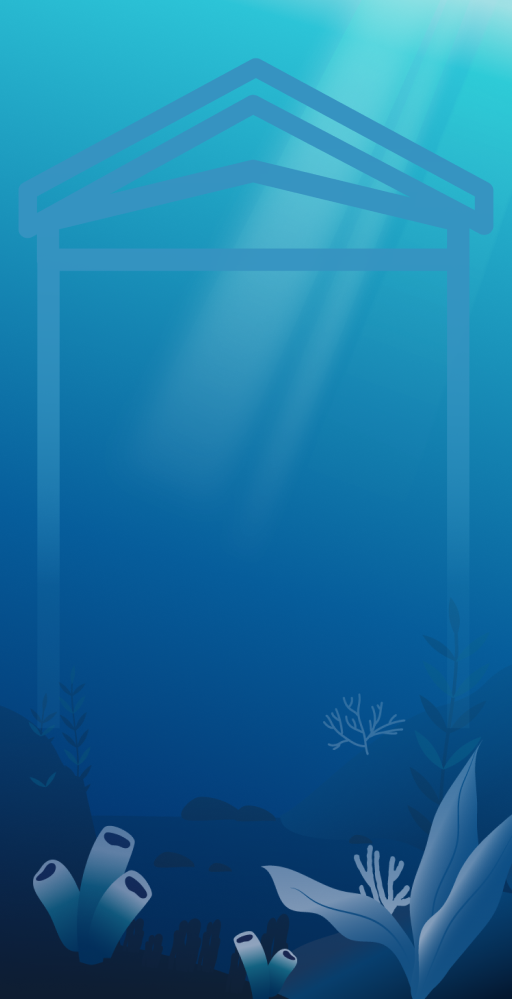
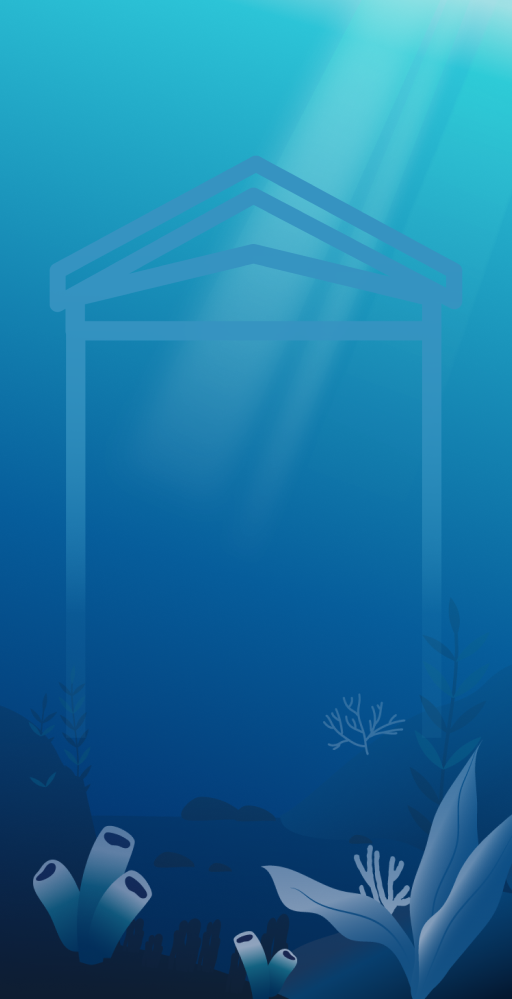
q8

diff --git a/qa.html b/qa.html
@@ -59,7 +59,7 @@
                     <button type="button" class="rightarrow_btn"><img src="./img/img/arrow@4x 2.png"
                             width="36"></button>
                 </div>
-                <button id="selectBtn">選好了</button>
+                <button class="selectBtn">選好了</button>
             </div>
 
         </div>
@@ -93,11 +93,51 @@
                         width="98">
                 </div>
             </div>
-            <button id="selectBtn"><a href="qa5.html"> 選好了</a></button>
-
-
+            <button class="selectBtn">選好了</button>
         </div>
-        
+        <div class="question" data-index="4">
+            <p class="qa">跟著寶石游著游著，你發現海底熱鬧繁華，原來是正在舉辦音樂節，同時，遠方出現水母向你招手，邀你一同歡慶，於是你...</p>
+            <div class="container q5">
+                <img src="./img/img/333.png" alt="水母" width="316">
+            </div>
+            <input type="button" class="qa_btn" data-score="20" data-person="talk" value="過去詢問詛咒一事"></input>
+            <input type="button" class="qa_btn" data-score="15" data-person="one" value="時間還很充裕先逛逛"></input>
+            <input type="button" class="qa_btn" data-score="12" data-person="detail" value="先取得解藥再折返"></input>
+        </div>
+
+        <div class="question" data-index="5">
+            <p class="qa">此時，穿過神秘水流不小心捲入漩渦，眼前的寶石也消失了，來到了洞穴入口，結果突然衝出xx動物擋在你眼前，你覺得是...</p>
+            <div class="container q6">
+                <img src="./img/img/eyesss.png" alt="魚眼" width="350">
+            </div>
+            <input type="button" class="qa_btn q6" data-score="10" data-person="create" value="算命卜卦的水母
+            用水晶球預言未來"></input>
+            <input type="button" class="qa_btn q6" data-score="12" data-person="detail" value="通曉古今的海龜
+            闡述人魚傳說的故事"></input> 
+            <input type="button" class="qa_btn q6" data-score="15" data-person="leader" value="霸佔領域的鯊魚
+            質問你到此的原因"></input>
+        </div>
+        <div class="question" data-index="6">
+            <p class="qa">吿別之後，夜幕降臨，你得知”解藥”被稱為「珊瑚花」，藏匿於洞穴深處，如果可以，你希望能跟誰一同踏入尋找?</p>
+            <div class="containe q7">
+                <img class="flower" src="./img/img/flower01.png" alt="神秘花" width="260">
+            </div>
+            <input type="button" class="qa_btn q7" data-score="10" data-person="create" value="我最好的朋友
+            "></input> 
+            <input type="button" class="qa_btn q7" data-score="12" data-person="detail" value="有經驗豐富的前輩帶領
+            "></input>  
+            <input type="button" class="qa_btn q7" data-score="15" data-person="leader" value="能聽我指揮的全能虎鯨
+            "></input>
+        </div>
+        <div class="question" data-index="7">
+            <p class="qa">穿越洞穴後，眼前豁然開朗，出現了一片巨大的珊瑚林，你最期待看到...</p>
+            <input type="button" class="qa_btn q8" data-score="10" data-person="create" value="我最好的朋友
+            "></input> 
+            <input type="button" class="qa_btn q8" data-score="12" data-person="detail" value="有經驗豐富的前輩帶領
+            "></input>  
+            <input type="button" class="qa_btn q8" data-score="15" data-person="leader" value="能聽我指揮的全能虎鯨
+            "></input>
+        </div>
     </div>
 
 

diff --git a/js/qa.js b/js/qa.js
@@ -34,11 +34,19 @@ $(document).ready(function () {
             // 如果您希望移动后 logo 不再动画，则将 transition 属性设为空字符串
             logo.css('transition', 'transform 1s');
         });
+        $('.image-selection img').on('click', function () {
+            // 清除所有圖像的亮起狀態
+            $('.image-selection img').removeClass('selected');
+            // 點亮當前點擊的圖像
+            $(this).addClass('selected');
+            // 顯示 "選好了" 按鈕
+            $('#selectBtn').show();
+        });
     });
 
 
     // 监听"選好了"按钮点击事件
-    $('#selectBtn').on('click', function () {
+    $('.selectBtn').on('click', function () {
         // 移动进度条的 logo
         $('.logo').animate({ left: '35px' }, 'slow');
 
@@ -147,31 +155,58 @@ $(document).ready(function () {
     });
 });
 
+$(document).ready(function () {
+    // 監聽形狀圖像的點擊事件
+    $('.question[data-index="3"] .image-selection img').on('click', function () {
+        // 顯示 "選好了" 按鈕
+        $('.question[data-index="3"] .selectBtn').show();
+    });
+
+    // 監聽 "選好了" 按鈕點擊事件
+    $('.question[data-index="3"] .selectBtn').on('click', function () {
+        // 移動進度條的 logo
+        $('.progress .logo').animate({ left: '35px' }, 'slow');
+
+        // 隱藏當前問題並顯示下一個問題
+        let currentQuestion = $(this).closest('.question');
+        currentQuestion.hide();
+
+        // 獲取下一個問題的索引
+        let nextQuestionIndex = parseInt(currentQuestion.data('index')) + 1;
+        let nextQuestion = $('.question[data-index="' + nextQuestionIndex + '"]');
+
+        // 如果下一個問題存在，則顯示它
+        if (nextQuestion.length) {
+            nextQuestion.show();
+        } else {
+            // 如果沒有下一個問題，執行其他操作，例如跳轉到結果頁面
+            console.log('所有問題都已經回答完畢。');
+        }
+    });
+});
+
+
 //q5 bg
 $(document).ready(function () {
     $('.question').on('click', function () {
         // 获取当前问题的索引
         var currentIndex = parseInt($(this).data('index'));
-        
+
         // 根据问题的索引修改 HTML 元素的属性
+        if (currentIndex === 2) {
+            $('html').addClass('q4-background');
+        }
+        if (currentIndex === 3) {
+            $('html').addClass('q5-background');
+        }
         if (currentIndex === 4) {
-            $('html').css({
-                'background-image': 'url("./img/img/Q6.png")',
-                'display': 'flex',
-                'background-position':'center center',
-                'position':'relative',
-                'background-clip':'boder-box',
-                'margin':'0 auto',
-                'padding':'0',
-                '-webkit-box-align': 'center',
-                'background-repeat': 'no-repeat',
-                'background-clip': 'border-box',
-                'background-color': '#01235e',
-              
-            });
+            $('html').addClass('q6-background');
+        } if (currentIndex === 6) {
+            $('html').addClass('q8-background');
         }
     });
 });
+
 
 
 

diff --git a/all.css b/all.css
@@ -1,4 +1,4 @@
-html {
+html{
   margin: 0 auto;
   padding: 0;
   font-family: "Gen Jyuu Gothic", "Otsutome_font", "Mukasi Mukasi",
@@ -15,4 +15,23 @@ html {
   position: relative;
   text-align: center;
   overflow-x: hidden;
+  background: cover;
+}
+
+/* 背景圖 Q4 */
+.q4-background {
+  background-image: url("./img/img/Q4\ bg.png");
+}
+
+.q5-background {
+  background-image: url("./img/img/Q1.png");
+}
+
+/* 背景圖 Q6 */
+.q6-background {
+  background-image: url("./img/img/Q6.png");
+}
+
+.q8-background {
+  background-image: url("./img/img/final\ bg@3x.png");
 }

diff --git a/qa.css b/qa.css
@@ -183,7 +183,7 @@ p.q3 {
   margin-left: 30%; /* 调整右箭头的位置 */
 }
 
-#selectBtn {
+.selectBtn {
   width: 212px;
   height: 64px;
   padding: 12px 10px;
@@ -240,7 +240,15 @@ p.q4 {
   margin: -20px 0;
 }
 
+
 .qa_btn.q7 {
   width: 258px;
   height: 54px;
 }
+
+.qa_btn.q8 {
+  background-image: url(./img/img/btn\ bb@3x.png);
+  width: 258px;
+  height: 54px;
+}
+
